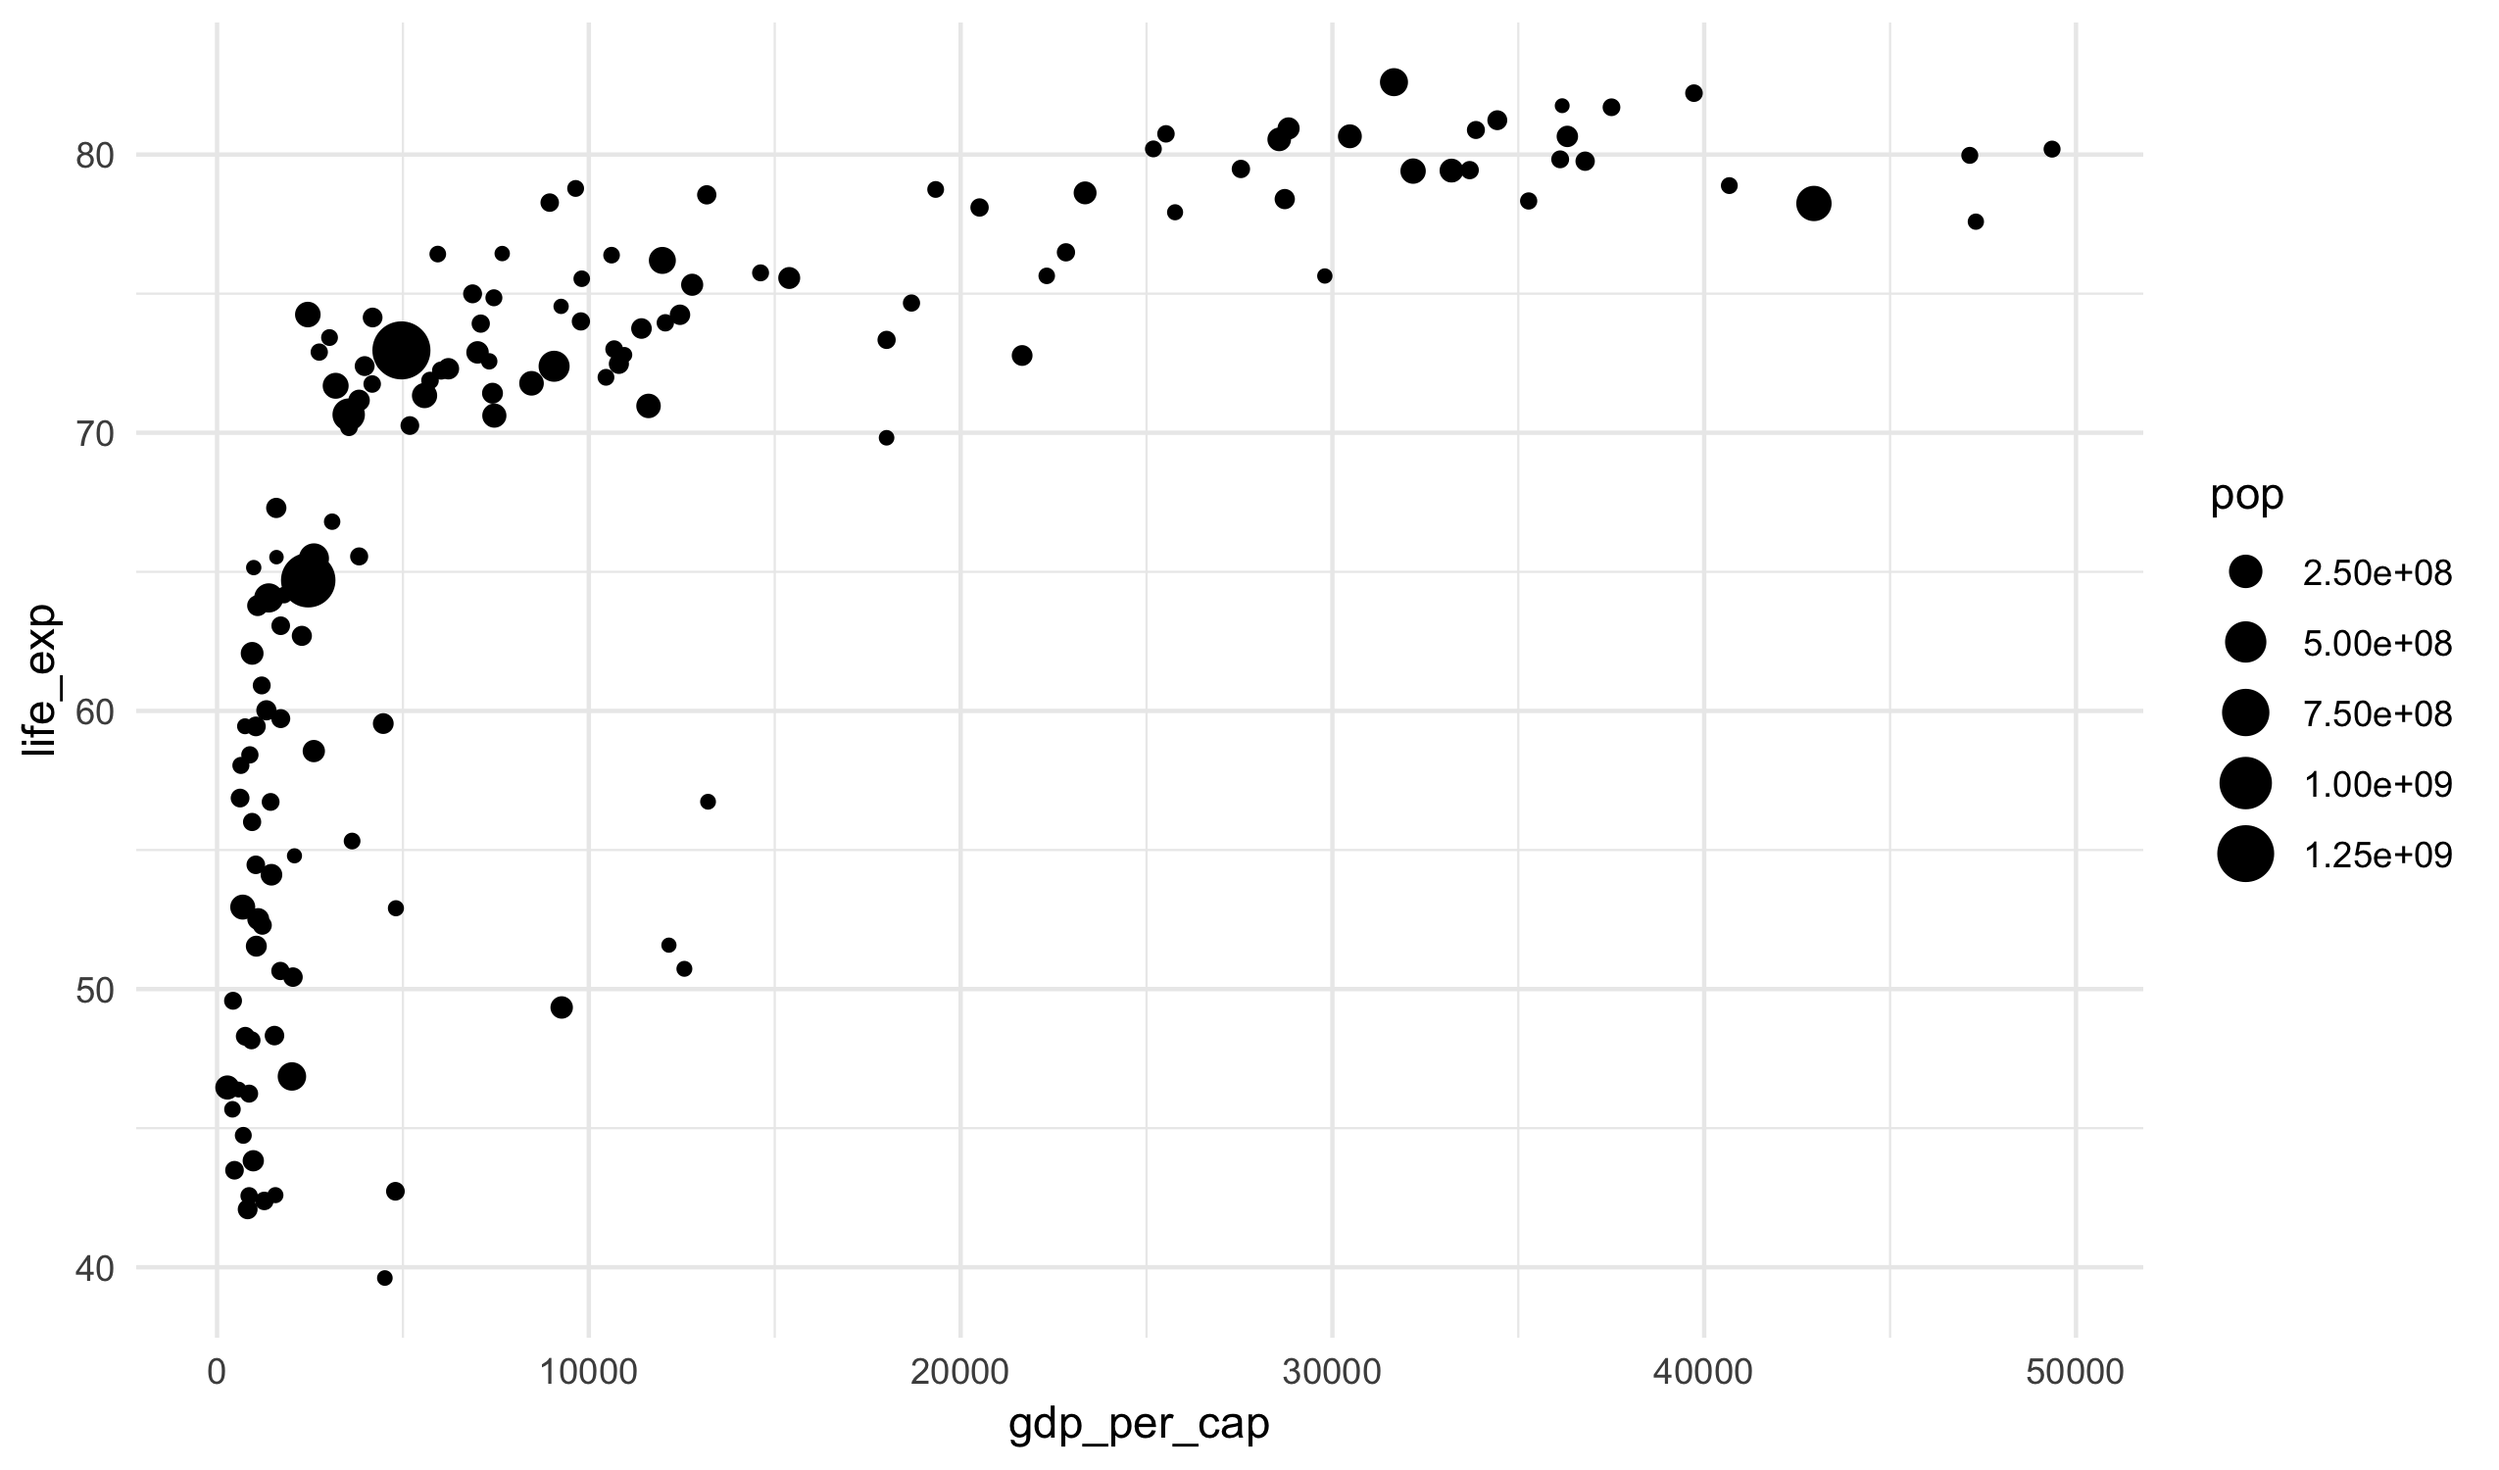
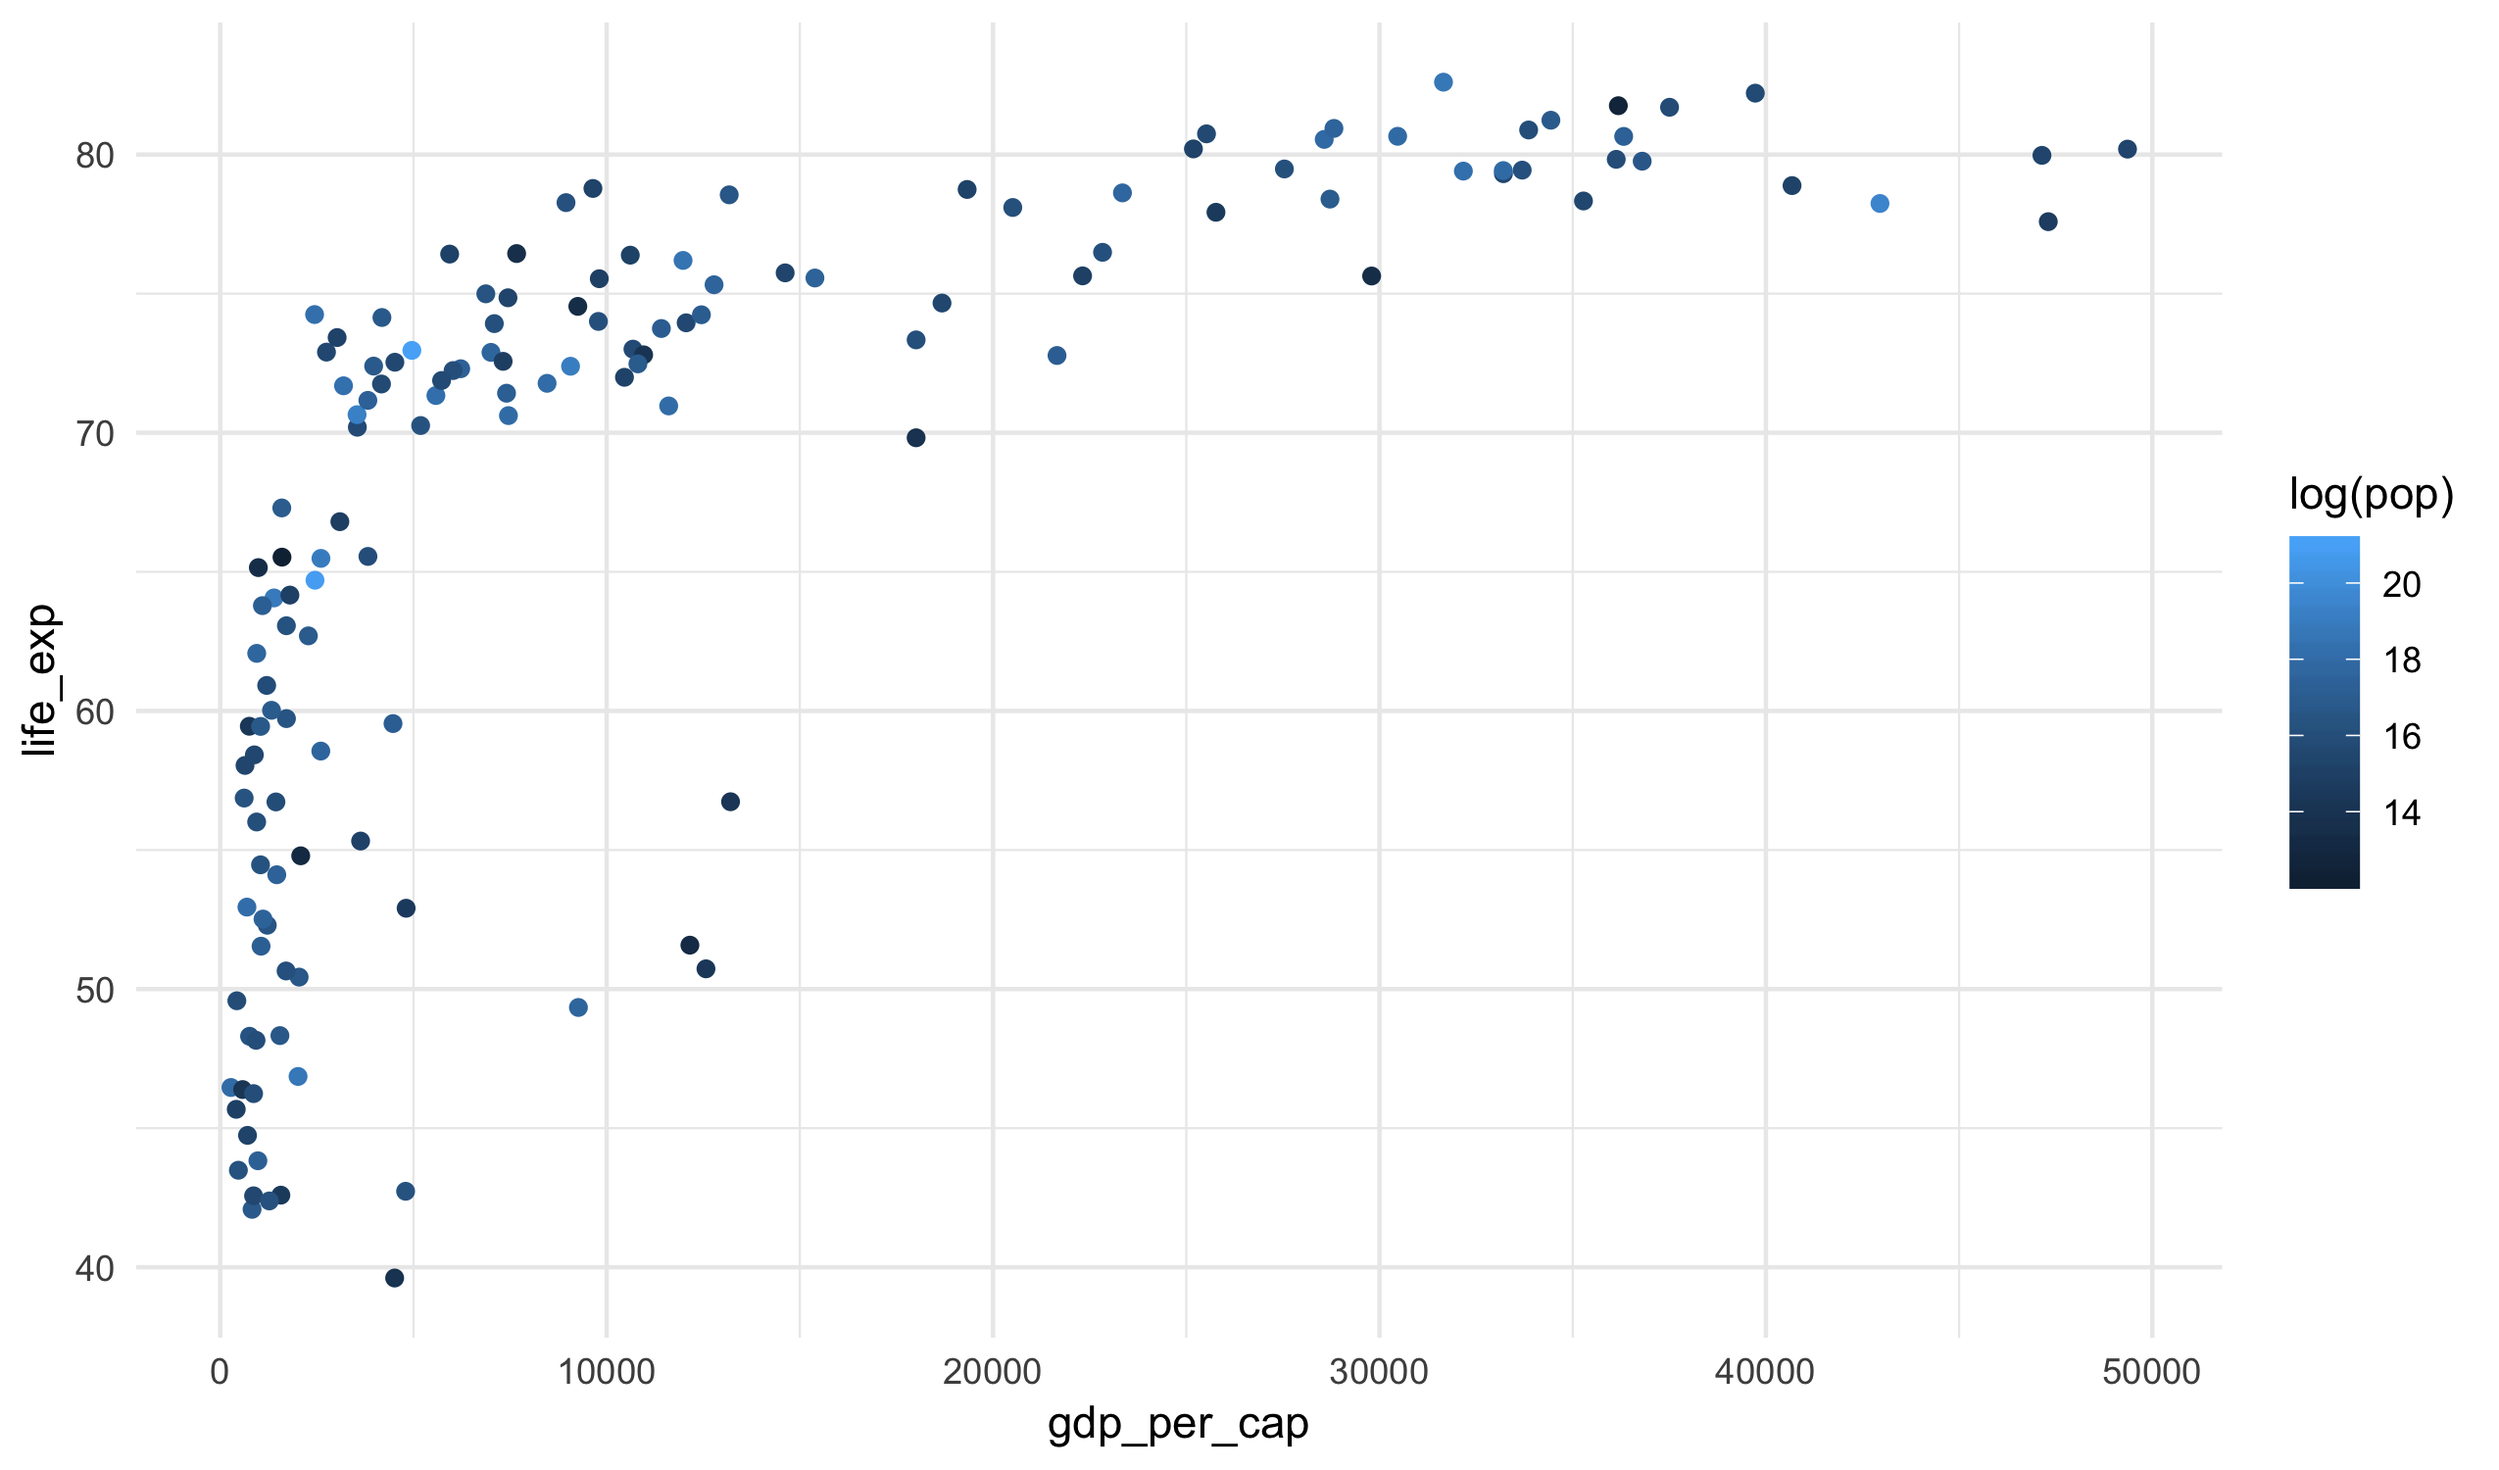
update notes

diff --git a/index.html b/index.html
@@ -31,9 +31,9 @@ Syllabus: <a href="assets/syllabus/STAT209_Syllabus.pdf">STAT209_Syllabus.pdf</a
     <li><strong>2018-09-20</strong>&nbsp;&nbsp;[Project I]</li>
     <li><strong>2018-09-25</strong>&nbsp;&nbsp;<a href="/stat209-f18/notes/class07-grammar-of-graphics">
     Class 07 &mdash; Grammar of Graphics</a></li>
-    <!--<li><strong>2018-09-27</strong>&nbsp;&nbsp;<a href="/stat209-f18/notes/class08-aesthetics">
+    <li><strong>2018-09-27</strong>&nbsp;&nbsp;<a href="/stat209-f18/notes/class08-aesthetics">
     Class 08 &mdash; Aesthetic Mappings</a></li>
-    <li><strong>2018-10-02</strong>&nbsp;&nbsp;<a href="/stat209-f18/notes/class09-annotating-data-viz">
+    <!--<li><strong>2018-10-02</strong>&nbsp;&nbsp;<a href="/stat209-f18/notes/class09-annotating-data-viz">
     Class 09 &mdash; Annotating Data Visualizations</a></li>
     <li><strong>2018-10-04</strong>&nbsp;&nbsp;<a href="/stat209-f18/notes/class10-filtering-data">
     Class 10 &mdash; Filtering Data</a></li>
@@ -76,8 +76,8 @@ Syllabus: <a href="assets/syllabus/STAT209_Syllabus.pdf">STAT209_Syllabus.pdf</a
     <li><a href="https://raw.githubusercontent.com/statsmaths/stat209-f18/master/labs/lab05.Rmd">Lab 05</a></li>
     <li><a href="https://raw.githubusercontent.com/statsmaths/stat209-f18/master/labs/lab06.Rmd">Lab 06</a></li>
     <li><a href="https://raw.githubusercontent.com/statsmaths/stat209-f18/master/labs/lab07.Rmd">Lab 07</a></li>
-    <!--<li><a href="https://raw.githubusercontent.com/statsmaths/stat209-f18/master/labs/lab08.Rmd">Lab 08</a></li>
-    <li><a href="https://raw.githubusercontent.com/statsmaths/stat209-f18/master/labs/lab09.Rmd">Lab 09</a></li>
+    <li><a href="https://raw.githubusercontent.com/statsmaths/stat209-f18/master/labs/lab08.Rmd">Lab 08</a></li>
+    <!--<li><a href="https://raw.githubusercontent.com/statsmaths/stat209-f18/master/labs/lab09.Rmd">Lab 09</a></li>
     <li><a href="https://raw.githubusercontent.com/statsmaths/stat209-f18/master/labs/lab10.Rmd">Lab 10</a></li>
     <li><a href="https://raw.githubusercontent.com/statsmaths/stat209-f18/master/labs/lab11.Rmd">Lab 11</a></li>
     <li><a href="https://raw.githubusercontent.com/statsmaths/stat209-f18/master/labs/lab12.Rmd">Lab 12</a></li>

diff --git a/_notes/class08-aesthetics.md b/_notes/class08-aesthetics.md
@@ -72,9 +72,21 @@ ggplot(gapminder_2007, aes(gdp_per_cap, life_exp)) +
 
 <img src="../assets/class08-aesthetics/unnamed-chunk-4-1.png" title="plot of chunk unnamed-chunk-4" alt="plot of chunk unnamed-chunk-4" width="100%" />
 
-Or change the size to match the population. Note that R writes the population
-key in scientific notation (2.5e+08 is the same as 2.5 time 10 to the power of
-eight).
+We can also map a continuous variable to color, though the default scale
+is not very nice (more on this in a moment).
+
+
+{% highlight r %}
+ggplot(gapminder_2007, aes(gdp_per_cap, life_exp)) +
+  geom_point(aes(color = log(pop)))
+{% endhighlight %}
+
+<img src="../assets/class08-aesthetics/unnamed-chunk-5-1.png" title="plot of chunk unnamed-chunk-5" alt="plot of chunk unnamed-chunk-5" width="100%" />
+
+
+We could also change the size of the point to match the population. Note that R
+writes the population key in scientific notation (2.5e+08 is the same as 2.5 time
+10 to the power of eight).
 
 
 {% highlight r %}
@@ -82,7 +94,7 @@ ggplot(gapminder_2007, aes(gdp_per_cap, life_exp)) +
   geom_point(aes(size = pop))
 {% endhighlight %}
 
-<img src="../assets/class08-aesthetics/unnamed-chunk-5-1.png" title="plot of chunk unnamed-chunk-5" alt="plot of chunk unnamed-chunk-5" width="100%" />
+<img src="../assets/class08-aesthetics/unnamed-chunk-6-1.png" title="plot of chunk unnamed-chunk-6" alt="plot of chunk unnamed-chunk-6" width="100%" />
 
 Or, finally, we could change both the size and color.
 
@@ -92,7 +104,109 @@ ggplot(gapminder_2007, aes(gdp_per_cap, life_exp)) +
   geom_point(aes(size = pop, color = continent))
 {% endhighlight %}
 
-<img src="../assets/class08-aesthetics/unnamed-chunk-6-1.png" title="plot of chunk unnamed-chunk-6" alt="plot of chunk unnamed-chunk-6" width="100%" />
+<img src="../assets/class08-aesthetics/unnamed-chunk-7-1.png" title="plot of chunk unnamed-chunk-7" alt="plot of chunk unnamed-chunk-7" width="100%" />
+
+Notice that R takes care of the specific colors and sizes. All we do is indicate which
+variables are mapped to a given value.
+
+I rarely do this in practice, but it is also  possible to map a variable to a shape:
+
+
+{% highlight r %}
+ggplot(gapminder_2007, aes(gdp_per_cap, life_exp)) +
+  geom_point(aes(shape = continent))
+{% endhighlight %}
+
+<img src="../assets/class08-aesthetics/unnamed-chunk-8-1.png" title="plot of chunk unnamed-chunk-8" alt="plot of chunk unnamed-chunk-8" width="100%" />
+
+## Fixed aesthetics
+
+A very powerful feature of the grammar of graphics is the ability to map a variable to
+a visual aesthetic such as the x- and y-axes or the color and shape. In some cases, 
+though, you may just want to change an aesthetic to a fixed value for all points.
+This can be done as well by specifying the aesthetic **outside** of the `aes()`
+function. For example, here I'll change all of the points to be blue:
+
+
+{% highlight r %}
+ggplot(gapminder_2007, aes(gdp_per_cap, life_exp)) +
+  geom_point(color = "blue")
+{% endhighlight %}
+
+<img src="../assets/class08-aesthetics/unnamed-chunk-9-1.png" title="plot of chunk unnamed-chunk-9" alt="plot of chunk unnamed-chunk-9" width="100%" />
+
+R won't give an error if I put the same code inside of the aes function. Watch
+this:
+
+
+{% highlight r %}
+ggplot(gapminder_2007, aes(gdp_per_cap, life_exp)) +
+  geom_point(aes(color = "blue"))
+{% endhighlight %}
+
+<img src="../assets/class08-aesthetics/unnamed-chunk-10-1.png" title="plot of chunk unnamed-chunk-10" alt="plot of chunk unnamed-chunk-10" width="100%" />
+
+What's happening here?!
+
+You can mix fixed and variable aesthetics in the same plot. For example, here I
+use color to represent the continent but make all the points larger. 
+
+
+{% highlight r %}
+ggplot(gapminder_2007, aes(gdp_per_cap, life_exp)) +
+  geom_point(aes(color = continent), size = 3)
+{% endhighlight %}
+
+<img src="../assets/class08-aesthetics/unnamed-chunk-11-1.png" title="plot of chunk unnamed-chunk-11" alt="plot of chunk unnamed-chunk-11" width="100%" />
+
+Note that the `aes()` part **must** go first. Just another rule you need to remember.
+
+## More plot types
+
+There are some plot types that do not have a specified y-axis. In these cases the
+y-axis is determine by an internal model created by the plot. Two types that we
+will frequently see are `geom_bar` for showing counts of a categorical variable: 
+
+
+{% highlight r %}
+ggplot(gapminder_2007, aes(continent)) +
+  geom_bar()
+{% endhighlight %}
+
+<img src="../assets/class08-aesthetics/unnamed-chunk-12-1.png" title="plot of chunk unnamed-chunk-12" alt="plot of chunk unnamed-chunk-12" width="100%" />
+
+And `geom_histogram` to show the distribution of a numeric variable:
+
+
+{% highlight r %}
+ggplot(gapminder_2007, aes(life_exp)) +
+  geom_histogram(color = "black", fill = "white")
+{% endhighlight %}
+
+
+
+{% highlight text %}
+## `stat_bin()` using `bins = 30`. Pick better value with `binwidth`.
+{% endhighlight %}
+
+<img src="../assets/class08-aesthetics/unnamed-chunk-13-1.png" title="plot of chunk unnamed-chunk-13" alt="plot of chunk unnamed-chunk-13" width="100%" />
+
+Notice that I changed two fixed aesthetics in this second plot (I like my choices
+better than the default).
+
+As a common trick with bar plots, I often add the layer `coord_flip` to make the
+bars go left-to-right.
+
+
+{% highlight r %}
+ggplot(gapminder_2007, aes(continent)) +
+  geom_bar() +
+  coord_flip()
+{% endhighlight %}
+
+<img src="../assets/class08-aesthetics/unnamed-chunk-14-1.png" title="plot of chunk unnamed-chunk-14" alt="plot of chunk unnamed-chunk-14" width="100%" />
+
+If the categories are long, this makes it easier to read them.
 
 ## Scales
 
@@ -107,7 +221,7 @@ ggplot(gapminder_2007, aes(gdp_per_cap, life_exp)) +
   scale_color_viridis()
 {% endhighlight %}
 
-<img src="../assets/class08-aesthetics/unnamed-chunk-7-1.png" title="plot of chunk unnamed-chunk-7" alt="plot of chunk unnamed-chunk-7" width="100%" />
+<img src="../assets/class08-aesthetics/unnamed-chunk-15-1.png" title="plot of chunk unnamed-chunk-15" alt="plot of chunk unnamed-chunk-15" width="100%" />
 
 The viridis color pallet is optimized for readability for people who are color blind.
 It also improves the plot when printed in black and white or projected on a badly
